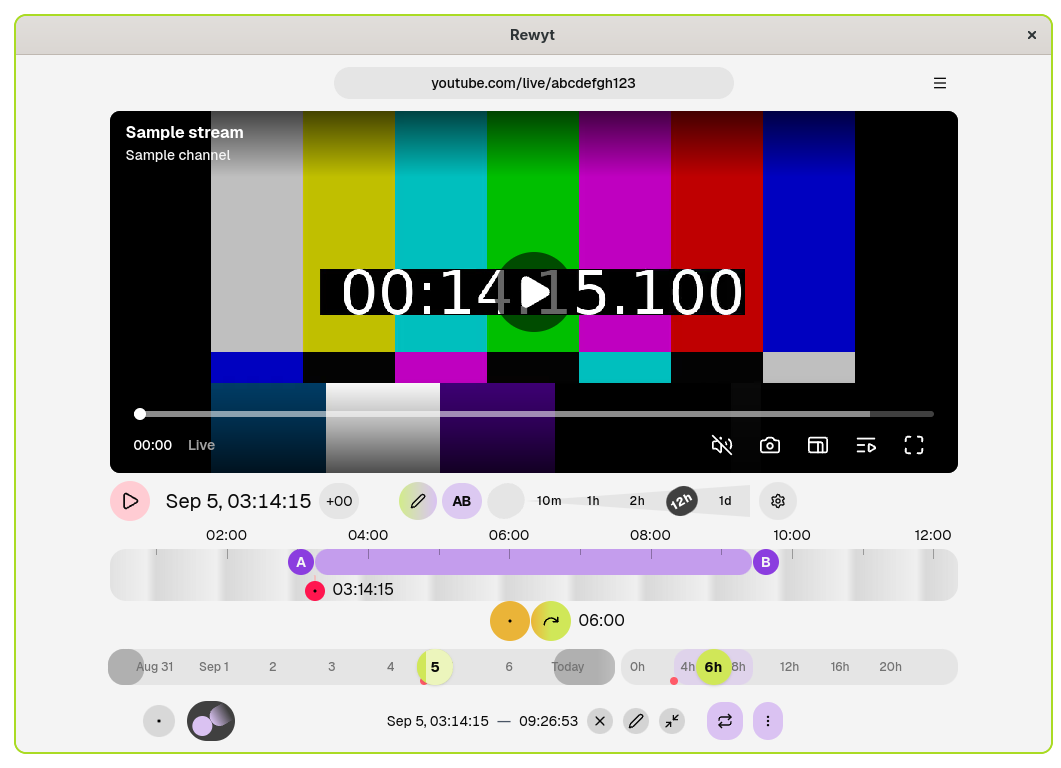
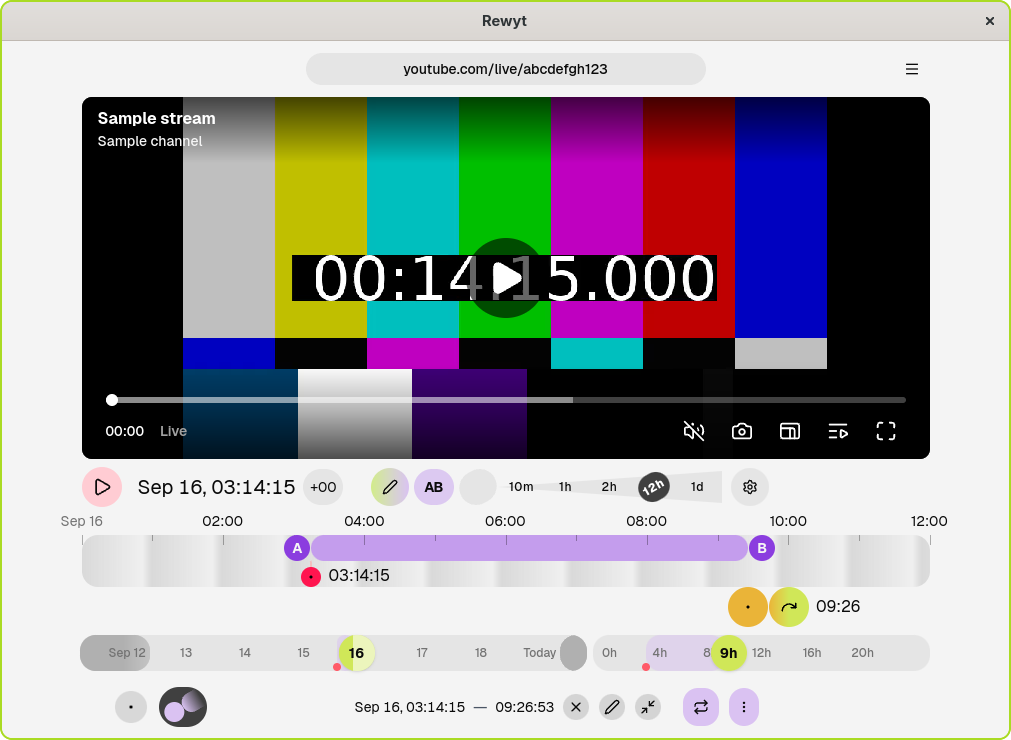
feat(website): add annotated screenshot overlay

Changed region(s): [[0.0, 0.0, 1.0, 1.0], [0.8586, 0.6838, 0.9505, 0.777], [0.4599, 0.8703, 0.4906, 0.9014]]

diff --git a/website/src/lib/components/ScreenshotPane.svelte b/website/src/lib/components/ScreenshotPane.svelte
@@ -1,0 +1,72 @@
+<script lang="ts">
+  import screenshot from "$lib/assets/screenshot.png";
+  import annotations from "$lib/data/screenshot-annotations.json";
+
+  const holes = annotations.filter((a) => a.type !== "window");
+
+  const holePaddingPx = 5;
+  const holeRadiusPx = 12;
+  const maskRadius = 10;
+  let screenshotWidth = $state(1011);
+
+  const pxToUnits = $derived(screenshotWidth > 0 ? 1011 / screenshotWidth : 1);
+  const holePadding = $derived(holePaddingPx * pxToUnits);
+  const holeRadius = $derived(holeRadiusPx * pxToUnits);
+</script>
+
+<div
+  class="relative mt-10 w-full max-w-[720px]"
+  bind:clientWidth={screenshotWidth}
+>
+  <img src={screenshot} alt="Rewyt screenshot" class="w-full" />
+  {#snippet outline(a: (typeof annotations)[number])}
+    {@const [x1, y1, x2, y2] = a.bbox}
+    {#if a.type === "button"}
+      <ellipse
+        cx={(x1 + x2) / 2}
+        cy={(y1 + y2) / 2}
+        rx={(x2 - x1) / 2 + holePadding}
+        ry={(y2 - y1) / 2 + holePadding}
+        fill="black"
+      />
+    {:else}
+      <rect
+        x={x1 - holePadding}
+        y={y1 - holePadding}
+        width={x2 - x1 + 2 * holePadding}
+        height={y2 - y1 + 2 * holePadding}
+        rx={holeRadius}
+        ry={holeRadius}
+        fill="black"
+      />
+    {/if}
+  {/snippet}
+  <svg
+    class="pointer-events-none absolute inset-0 h-full w-full"
+    viewBox="0 0 1011 740"
+    preserveAspectRatio="none"
+    aria-hidden="true"
+  >
+    <defs>
+      <mask id="screenshot-annotations-mask">
+        <rect
+          width="1011"
+          height="740"
+          rx={maskRadius}
+          ry={maskRadius}
+          fill="white"
+        />
+        {#each holes as a (a.id)}
+          {@render outline(a)}
+        {/each}
+      </mask>
+    </defs>
+    <rect
+      width="1011"
+      height="740"
+      fill="var(--color-selected-darkest, #d4d4d4)"
+      fill-opacity="0.6"
+      mask="url(#screenshot-annotations-mask)"
+    />
+  </svg>
+</div>

diff --git a/website/src/routes/+page.svelte b/website/src/routes/+page.svelte
@@ -11,7 +11,7 @@
   import LandingPane from "/src/lib/components/LandingPane.svelte";
   import RewindPane from "/src/lib/components/RewindPane.svelte";
   import IntervalPane from "/src/lib/components/IntervalPane.svelte";
-  import screenshot from "$lib/assets/screenshot.png";
+  import ScreenshotPane from "/src/lib/components/ScreenshotPane.svelte";
   import { Popover } from "bits-ui";
   import { formatLocalIso } from "$lib/time";
 
@@ -77,11 +77,7 @@
     </p>
   </div>
 
-  <img
-    src={screenshot}
-    alt="Rewyt screenshot"
-    class="mt-10 w-full max-w-[720px] rounded-2xl"
-  />
+  <ScreenshotPane />
   <div
     class="mt-10 w-full max-w-2xl rounded-2xl bg-amber-100 px-6 py-4 text-left"
   >
